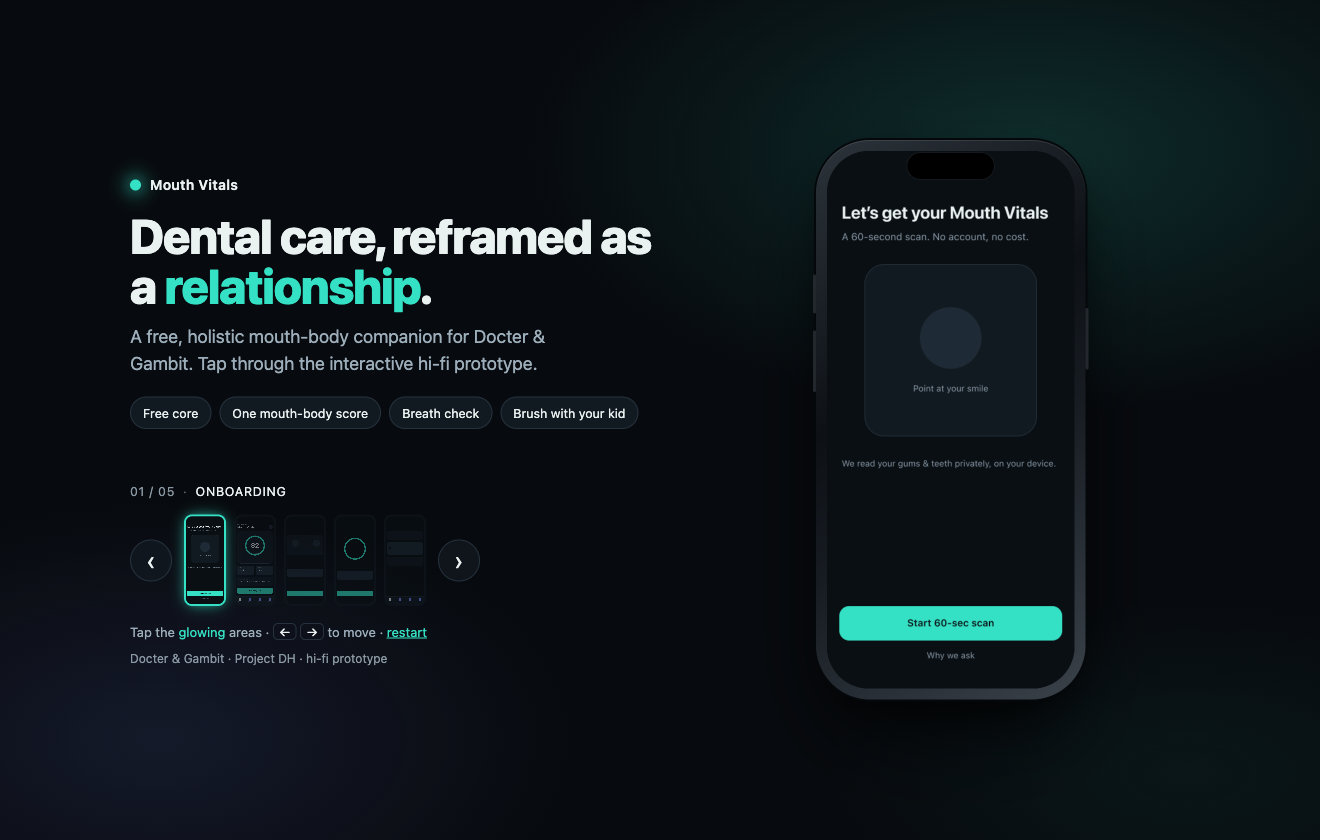
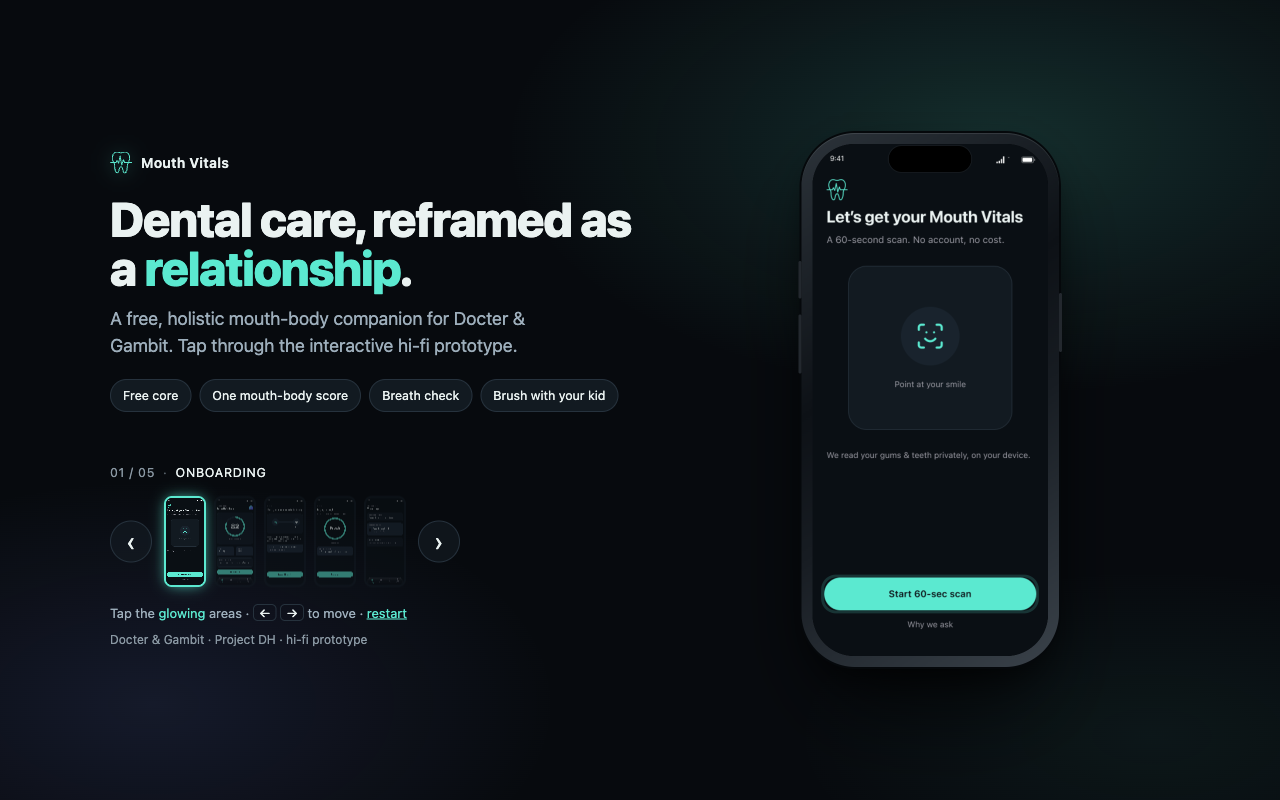
Fix phone mockup scaling on resize + refresh showcase images
- Phone size is now one continuous formula: clamp(320px, min(64dvh,100vw),
  620px). Removes the discrete --ph jumps at the 880/380 breakpoints (the
  mockup no longer resizes abruptly when crossing them) and lets it track
  BOTH viewport height and width. Verified continuous across 880 (566→566)
  and no overflow at 390/700/920/1280.
- Re-captured app-desktop.png / app-mobile.png from the current build (they
  showed the pre-redesign UI). Bump ASSET_V 10 → 11.

diff --git a/index.html b/index.html
@@ -7,22 +7,22 @@
   <meta name="description" content="Mouth Vitals — a free, holistic mouth-body companion. Interactive hi-fi prototype for Docter & Gambit (Project DH)." />
   <meta name="theme-color" content="#070A0E" />
   <meta name="color-scheme" content="dark" />
-  <link rel="icon" href="assets/icon.svg?v=10" />
-  <link rel="apple-touch-icon" href="assets/icon.svg?v=10" />
+  <link rel="icon" href="assets/icon.svg?v=11" />
+  <link rel="apple-touch-icon" href="assets/icon.svg?v=11" />
   <meta property="og:type" content="website" />
   <meta property="og:title" content="Mouth Vitals — interactive prototype" />
   <meta property="og:description" content="A free, holistic mouth-body companion. Tap through the hi-fi flow." />
   <meta property="og:url" content="https://docter-gambit-app.ontwrpn.com/" />
   <meta property="og:image" content="https://docter-gambit-app.ontwrpn.com/assets/score.png" />
   <meta name="twitter:card" content="summary_large_image" />
-  <link rel="stylesheet" href="styles.css?v=10" />
+  <link rel="stylesheet" href="styles.css?v=11" />
 </head>
 <body>
   <div class="bg" aria-hidden="true"></div>
 
   <main class="hero">
     <header class="intro">
-      <div class="brand"><img class="brand__mark" src="assets/mark.svg?v=10" alt="" aria-hidden="true" /> Mouth Vitals</div>
+      <div class="brand"><img class="brand__mark" src="assets/mark.svg?v=11" alt="" aria-hidden="true" /> Mouth Vitals</div>
       <h1 class="title">Dental care, reframed as a <span>relationship</span>.</h1>
       <p class="lede">A free, holistic mouth-body companion for Docter &amp; Gambit. Tap through the interactive hi-fi prototype.</p>
       <ul class="chips" aria-label="Highlights">
@@ -41,7 +41,7 @@
           <span class="phone__side phone__side--vol1" aria-hidden="true"></span>
           <span class="phone__side phone__side--vol2" aria-hidden="true"></span>
           <div class="phone__screen">
-            <img class="screen__img" id="screenImg" src="assets/onboarding.png?v=10" alt="App screen"
+            <img class="screen__img" id="screenImg" src="assets/onboarding.png?v=11" alt="App screen"
                  width="402" height="874" decoding="async" fetchpriority="high" draggable="false" />
             <div class="hotspots" id="hotspots"></div>
           </div>
@@ -63,6 +63,6 @@
     </div>
   </main>
 
-  <script src="app.js?v=10"></script>
+  <script src="app.js?v=11"></script>
 </body>
 </html>

diff --git a/styles.css b/styles.css
@@ -8,7 +8,7 @@
   --text:#EAF2F1;
   --muted:#9DAEBB;
   --dim:#8A98A3;
-  --ph:clamp(420px, 64dvh, 640px);          /* phone SCREEN height — dvh fits real mobile viewports */
+  --ph:clamp(320px, min(64dvh, 100vw), 620px); /* scales smoothly with BOTH viewport height & width — no breakpoint jumps */
   --radius-screen:42px;
   --radius-frame:54px;
   --ease:cubic-bezier(.22,.61,.36,1);
@@ -102,9 +102,8 @@ body{
   .lede{max-width:48ch}
   .chips,.navrow{justify-content:center}
   .hint .kbd-hint{display:none}
-  :root{--ph:clamp(360px,54dvh,520px)}
 }
-@media (max-width:380px){:root{--ph:clamp(320px,48dvh,440px)}}
+/* --ph is now a single continuous formula (above) — no per-breakpoint phone-size jumps */
 
 /* ---- keyframes (content visible by default; these only enhance) ---- */
 @keyframes rise{from{opacity:0;transform:translateY(20px)}to{opacity:1;transform:none}}

diff --git a/app.js b/app.js
@@ -1,7 +1,7 @@
 // Mouth Vitals — interactive prototype navigation
 // Bump ASSET_V whenever the screen PNGs change so browsers fetch fresh art
 // (nginx caches png/js for 7d; the query string busts that cache).
-const ASSET_V = "10";
+const ASSET_V = "11";
 const v = (p) => `${p}?v=${ASSET_V}`;
 const SCREENS = [
   { id: "onboarding", img: v("assets/onboarding.png"), label: "Onboarding",
